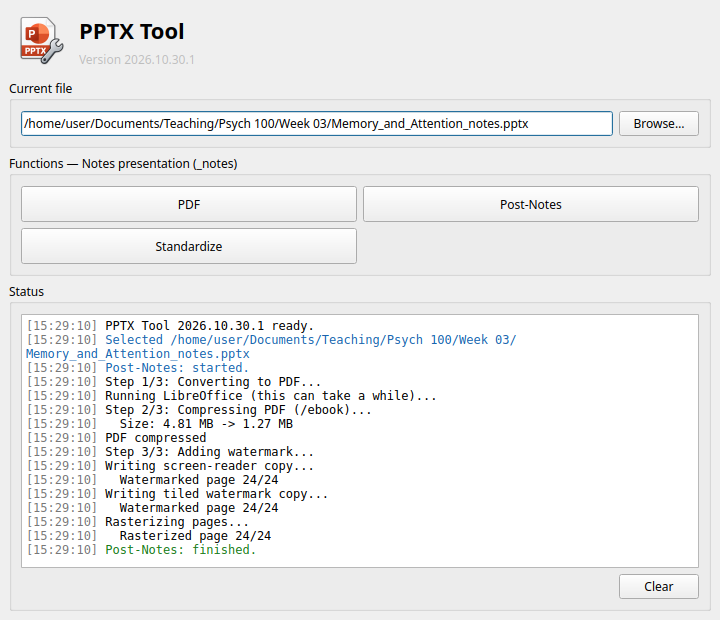
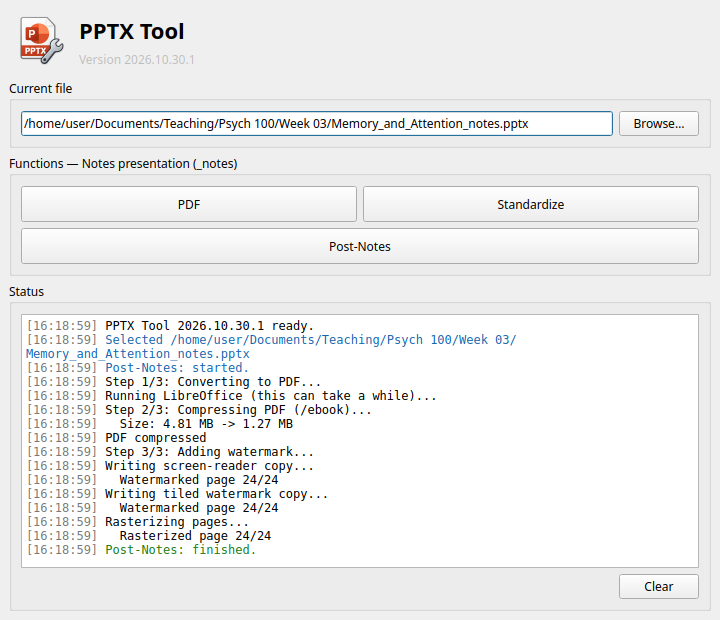
remembering more parameter changes between sessions. Also BADGES!!!

diff --git a/pptxtool/gui.py b/pptxtool/gui.py
@@ -214,6 +214,45 @@ def _pdf_settings_combo() -> QComboBox:
     return combo
 
 
+class WatermarkTextField(QWidget):
+    """Watermark text box with a button that restores the default text."""
+
+    def __init__(self, parent=None) -> None:
+        super().__init__(parent)
+        layout = QHBoxLayout(self)
+        layout.setContentsMargins(0, 0, 0, 0)
+        self._edit = QLineEdit(core.WATERMARK_TEXT)
+        self._edit.setToolTip("Text of the watermark.")
+        layout.addWidget(self._edit, stretch=1)
+        reset = QPushButton("Default")
+        reset.setToolTip(f"Reset to: {core.WATERMARK_TEXT}")
+        reset.clicked.connect(lambda: self._edit.setText(core.WATERMARK_TEXT))
+        layout.addWidget(reset)
+
+    def text(self) -> str:
+        return self._edit.text()
+
+    def setText(self, text: str) -> None:
+        self._edit.setText(text)
+
+
+# Remembered setting widgets: how to read and write each kind.
+_ACCESSORS = {
+    QCheckBox: (QCheckBox.isChecked, QCheckBox.setChecked),
+    QComboBox: (QComboBox.currentText, QComboBox.setCurrentText),
+    QDoubleSpinBox: (QDoubleSpinBox.value, QDoubleSpinBox.setValue),
+    QLineEdit: (QLineEdit.text, QLineEdit.setText),
+    WatermarkTextField: (WatermarkTextField.text, WatermarkTextField.setText),
+}
+
+
+def _accessors(widget: QWidget):
+    for cls, pair in _ACCESSORS.items():
+        if isinstance(widget, cls):
+            return pair
+    raise TypeError(f"Cannot remember a {type(widget).__name__}")
+
+
 ELLIPSIS = "…"
 
 
@@ -295,6 +334,9 @@ class OperationDialog(QDialog):
         self.setWindowTitle(f"{self.title} - {APP_NAME}")
         self.setMinimumWidth(520)
 
+        # (settings key, widget, default value) for every remembered setting
+        self._remembered: list[tuple[str, QWidget, object]] = []
+
         layout = QVBoxLayout(self)
 
         heading = QLabel(self.title)
@@ -333,12 +375,17 @@ class OperationDialog(QDialog):
         buttons = QDialogButtonBox()
         self.start_button = buttons.addButton("Start", QDialogButtonBox.ButtonRole.AcceptRole)
         buttons.addButton(QDialogButtonBox.StandardButton.Cancel)
+        if self._remembered:
+            restore = buttons.addButton(QDialogButtonBox.StandardButton.RestoreDefaults)
+            restore.setToolTip("Put every setting back to its default (saved when you press Start).")
+            restore.clicked.connect(self.restore_defaults)
         self.start_button.setDefault(True)
         self.start_button.setEnabled(not missing)
         buttons.accepted.connect(self._on_start)
         buttons.rejected.connect(self.reject)
         layout.addWidget(buttons)
 
+        self._load_settings()
         self.refresh_outputs()
 
     # -- hooks -----------------------------------------------------------
@@ -361,6 +408,42 @@ class OperationDialog(QDialog):
     def job(self) -> Job:
         raise NotImplementedError
 
+    # -- remembered settings ---------------------------------------------
+
+    def remember(self, key: str, widget: QWidget) -> QWidget:
+        """Remember widget's value under key; its current value is the default.
+
+        Call from add_settings after setting the widget's default. Stored values
+        are applied once the dialog is built and saved when Start is pressed.
+        """
+        getter, _ = _accessors(widget)
+        self._remembered.append((key, widget, getter(widget)))
+        return widget
+
+    def _load_settings(self) -> None:
+        settings = QSettings()
+        for key, widget, default in self._remembered:
+            if settings.contains(key):
+                _, setter = _accessors(widget)
+                setter(widget, settings.value(key, default, type=type(default)))
+
+    def save_settings(self) -> None:
+        # Defaults are not stored, so a default that changes (e.g. the year in the
+        # watermark text) keeps tracking the code instead of being frozen.
+        settings = QSettings()
+        for key, widget, default in self._remembered:
+            getter, _ = _accessors(widget)
+            value = getter(widget)
+            if value == default:
+                settings.remove(key)
+            else:
+                settings.setValue(key, value)
+
+    def restore_defaults(self) -> None:
+        for _, widget, default in self._remembered:
+            _, setter = _accessors(widget)
+            setter(widget, default)
+
     # -- internals -------------------------------------------------------
 
     def refresh_outputs(self) -> None:
@@ -381,6 +464,7 @@ class OperationDialog(QDialog):
         if error:
             QMessageBox.warning(self, self.title, error)
             return
+        self.save_settings()
         self.accept()
 
 
@@ -442,10 +526,9 @@ class PostNotesDialog(OperationDialog):
     required_tools = (("libreoffice", "soffice"), ("gs",))
 
     def add_settings(self, form: QFormLayout) -> None:
-        self.text_edit = QLineEdit(core.WATERMARK_TEXT)
-        self.text_edit.setToolTip("Text of the watermark.")
+        self.text_edit = self.remember("watermark/text", WatermarkTextField())
         form.addRow("Watermark text:", self.text_edit)
-        self.settings_combo = _pdf_settings_combo()
+        self.settings_combo = self.remember("pdf/settings", _pdf_settings_combo())
         form.addRow("PDF settings:", self.settings_combo)
 
     def outputs(self) -> list[Path]:
@@ -477,12 +560,13 @@ class CompressDialog(OperationDialog):
     required_tools = (("gs",),)
 
     def add_settings(self, form: QFormLayout) -> None:
-        self.settings_combo = _pdf_settings_combo()
+        self.settings_combo = self.remember("pdf/settings", _pdf_settings_combo())
         form.addRow("PDF settings:", self.settings_combo)
         self.replace_check = QCheckBox("Replace the original file")
         self.replace_check.setChecked(True)
         self.replace_check.setToolTip("Unchecked: write <name>_compressed.pdf next to the original instead.")
         self.replace_check.toggled.connect(self.refresh_outputs)
+        # Not remembered: choices about overwriting files are made fresh every time.
         form.addRow("", self.replace_check)
 
     def _output(self) -> Path:
@@ -510,7 +594,7 @@ class WatermarkDialog(OperationDialog):
     )
 
     def add_settings(self, form: QFormLayout) -> None:
-        self.text_edit = QLineEdit(core.WATERMARK_TEXT)
+        self.text_edit = self.remember("watermark/text", WatermarkTextField())
         form.addRow("Text:", self.text_edit)
 
         angle_row = QHBoxLayout()
@@ -553,6 +637,15 @@ class WatermarkDialog(OperationDialog):
         self.seed_edit.setToolTip("Integer random seed for jitter, to reproduce a run. Leave blank for random.")
         self.jitter_check.toggled.connect(self.seed_edit.setEnabled)
         form.addRow("Seed:", self.seed_edit)
+
+        self.remember("watermark/auto_angle", self.auto_angle)
+        self.remember("watermark/angle", self.angle_spin)
+        self.remember("watermark/gray", self.gray_spin)
+        self.remember("watermark/opacity", self.alpha_spin)
+        self.remember("watermark/layer", self.layer_combo)
+        self.remember("watermark/tile_opacity", self.tile_spin)
+        self.remember("watermark/jitter", self.jitter_check)
+        self.remember("watermark/seed", self.seed_edit)
 
     def outputs(self) -> list[Path]:
         return list(core.watermark_outputs(self.path.with_suffix("")))
@@ -598,11 +691,15 @@ WATERMARK_OP: Operation = ("Watermark", "Add reader and raster watermarked copie
 
 
 def operations_for(path: Path) -> tuple[str, list[Operation]]:
-    """A heading and the operations available for path."""
+    """A heading and the operations available for path.
+
+    Buttons are laid out two per row; with an odd number, the last one gets a
+    full-width row of its own, so list the operation to highlight last.
+    """
     if path.suffix.lower() == ".pdf":
         return "PDF document", [COMPRESS_OP, WATERMARK_OP]
     if is_notes_file(path):
-        return "Notes presentation (_notes)", [PDF_OP, POST_NOTES_OP, STANDARDIZE_OP]
+        return "Notes presentation (_notes)", [PDF_OP, STANDARDIZE_OP, POST_NOTES_OP]
     return "PowerPoint presentation", [PDF_OP, PWC_OP, PRE_NOTES_OP, STANDARDIZE_OP]
 
 
@@ -791,7 +888,10 @@ class MainWindow(QMainWindow):
             button.setMinimumHeight(36)
             button.setEnabled(self.worker is None)
             button.clicked.connect(lambda _=False, cls=dialog_cls: self._open_operation(cls))
-            self.functions_grid.addWidget(button, i // 2, i % 2)
+            if i == len(ops) - 1 and len(ops) % 2:
+                self.functions_grid.addWidget(button, i // 2, 0, 1, 2)  # last of an odd number: full row
+            else:
+                self.functions_grid.addWidget(button, i // 2, i % 2)
 
     # -- file selection --------------------------------------------------
 

diff --git a/README.md b/README.md
@@ -1,8 +1,12 @@
 # PPTX Tool
 
+[![License: LGPL v3](https://img.shields.io/badge/License-LGPL_v3-blue.svg)](https://www.gnu.org/licenses/lgpl-3.0)[![language: python](https://img.shields.io/badge/language-python-blue?logo=python&logoColor=yellow)](https://github.com/owner/repo/actions)[![dev OS: Linux Mint](https://img.shields.io/badge/dev_OS-Linux_Mint-yellowgreen?logo=linux&logoColor=black)](https://github.com/owner/repo/actions)[![Packaging: UV](https://img.shields.io/badge/Packaging-UV-blueviolet?logo=uv&logoColor=white)](https://github.com/owner/repo/actions)
+
 Travis L. Seymour, PhD. 2006
 
 A GUI application for turning PowerPoint decks into printer-friendly notes and watermarked, compressed PDF handouts.
+
+> NOTE: Functions that produce PDFs produce a normal one `[ORIG FILENAME].pdf`, and a reader one `[ORIG FILENAME]_reader.pdf`. The `_reader.pdf` one is probably the one you want: it's small and compact, and compatible with screen readers. The <i>regular</i> one is odd in that it creates an image based pdf that is much larger, but gives tools trying to remove the watermark more trouble. Use whichever one you want, for my purposes, the odd one is kept as the default. For those needed a screen-reader compatible version, I will give them the `_reader.pdf` version.
 
 [![PPTX Tool UI](pptxtool/resources/pptxtool_ui.png)](pptxtool/resources/pptxtool_ui.png)
 
@@ -24,6 +28,8 @@ Choose a file with **Browse…** or drag it onto the window. The available funct
 - **Standardize**: Arial fonts and black round bullets, edited in place.
 - **Compress**: shrink a PDF with Ghostscript.
 - **Watermark**: write reader and raster watermarked copies of a PDF.
+
+Settings you change in a dialog (watermark text, opacity, angle, PDF quality, and so on) are remembered for next time once you press **Start**. **Restore Defaults** puts a dialog's settings back. The watermark text defaults to the author's copyright line; the **Default** button beside it restores just that text.
 
 Each function opens a dialog that describes what will happen, shows its settings and output files, and asks before overwriting anything. Progress appears in the Status area. The app follows the system light/dark setting.
 
